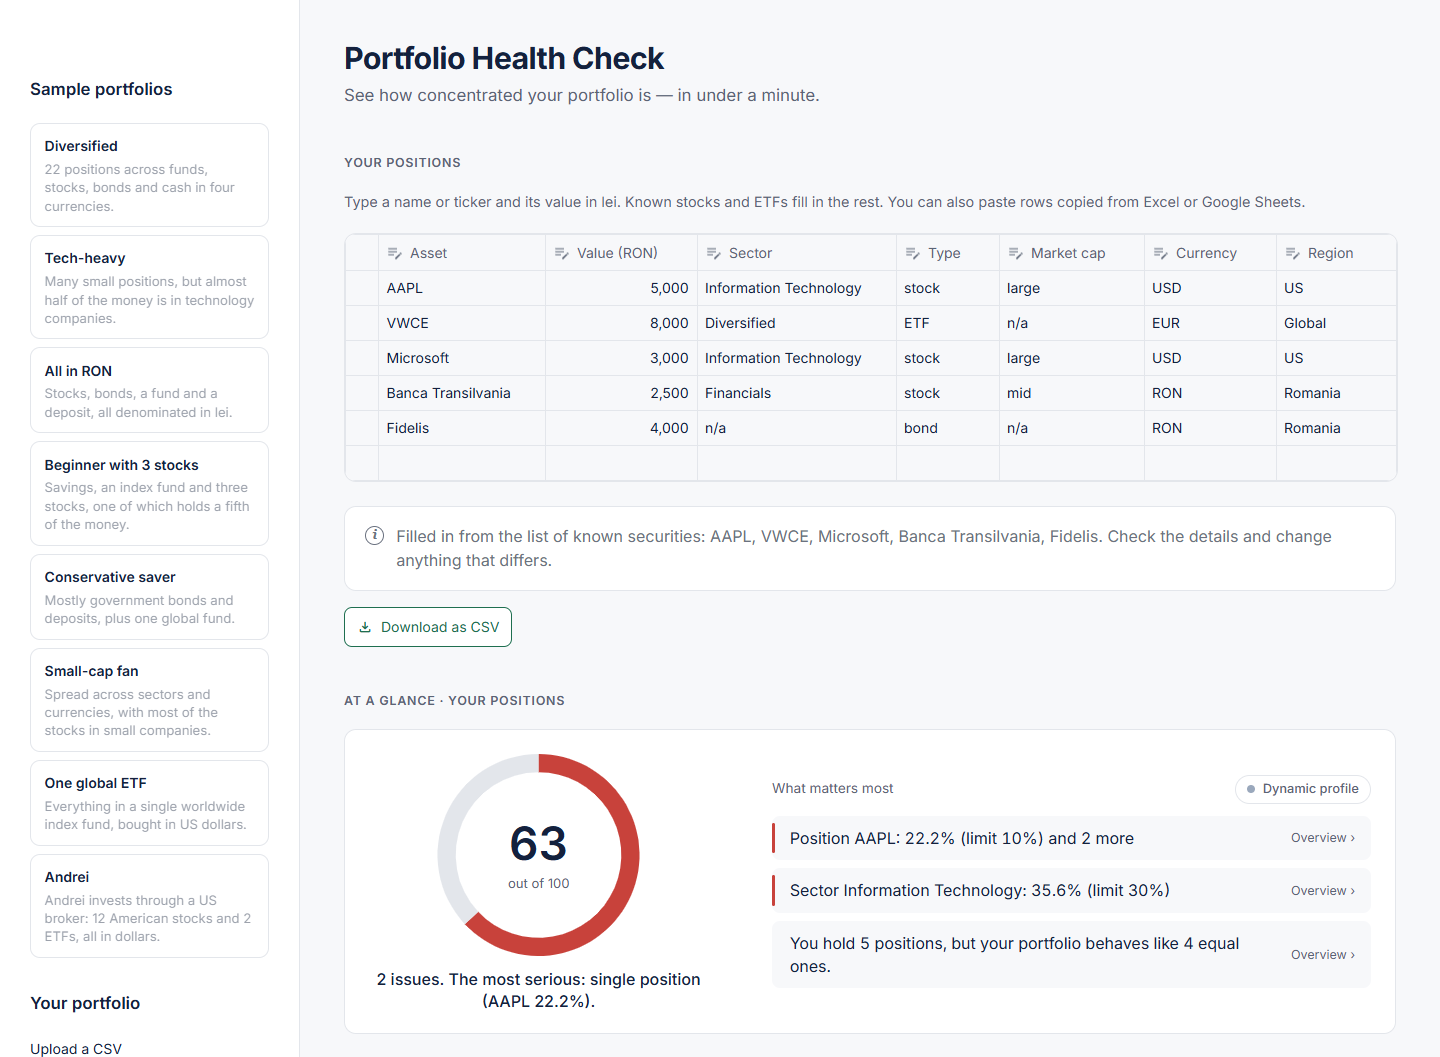
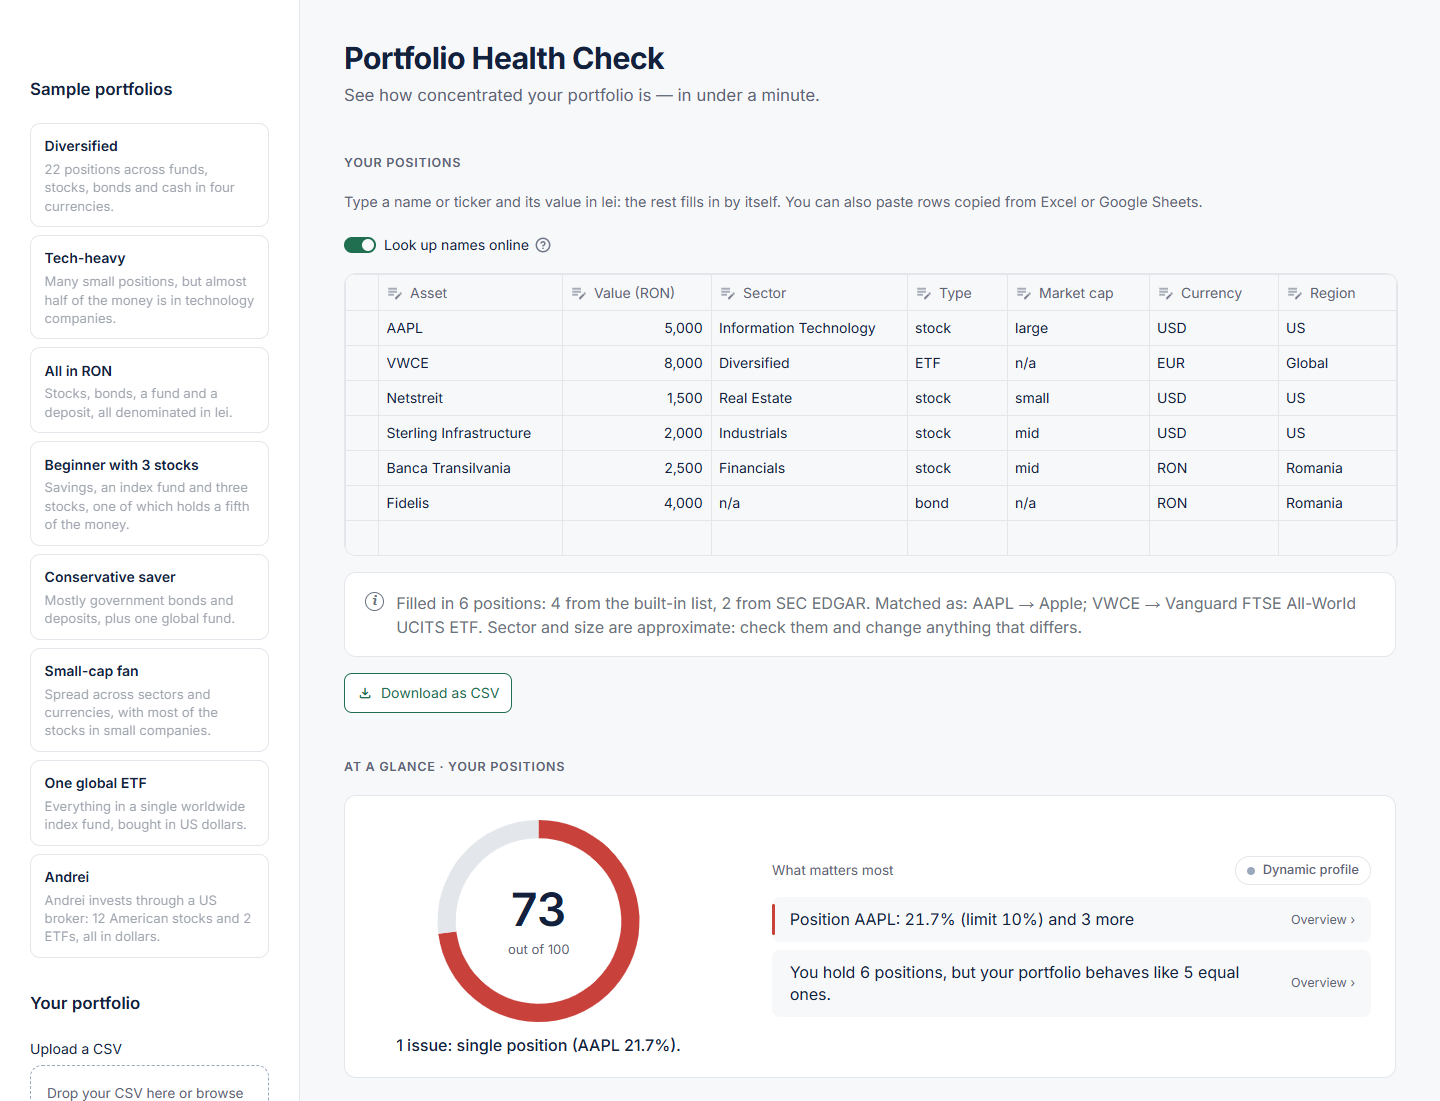
Document where the details come from and refresh screenshots

diff --git a/README.md b/README.md
@@ -14,10 +14,28 @@ The first time, it sets everything up (about a minute). After that, it starts at
 ## Three ways to enter a portfolio
 
 1. **Try a sample:** pick one of the eight portfolios in the side panel. "Edit these positions" turns any of them into a starting point for your own.
-2. **Type or paste:** click "Type or paste positions" and enter a name or ticker and its value in lei. Known stocks and ETFs (Apple, AAPL, VWCE, Banca Transilvania, …) fill in sector, type, market cap, currency and region by themselves, and you choose the rest from drop-down lists. You can also paste rows copied from Excel or Google Sheets (name, then value). "Download as CSV" keeps them for next time.
-3. **Upload a CSV:** the format is below. Files saved by Excel with Romanian settings work as they are, with `;` between columns and a decimal comma (1.234,56). Common spellings are accepted too ("Stock", "Large cap", "USA").
+2. **Type or paste:** click "Type or paste positions" and enter a name or ticker and its value in lei. Sector, type, market cap, currency and region fill in by themselves (see below), and whatever cannot be found is chosen from drop-down lists. You can also paste rows copied from Excel or Google Sheets (name, then value). "Download as CSV" keeps them for next time.
+3. **Upload a CSV:** the format is below. Files saved by Excel with Romanian settings work as they are, with `;` between columns and a decimal comma (1.234,56). Common spellings are accepted too ("Stock", "Large cap", "USA"). A file with only names and values is enough: the app offers to fill in the missing details.
 
-The list of known securities is [data/known_securities.csv](data/known_securities.csv). Add a row to teach the app a new stock or fund.
+![Positions pasted from a spreadsheet, filled in automatically](docs/screenshots/editor-paste-desktop.png)
+
+## Where the details come from
+
+Only free sources whose terms allow this use, in this order:
+
+| Source | Covers | Licence | Gives |
+|---|---|---|---|
+| Built-in list, [data/known_securities.csv](data/known_securities.csv) | about 220 popular stocks and ETFs: US and European large caps, Bucharest (BVB) shares, US and UCITS ETFs | our own compilation | everything |
+| [SEC EDGAR](https://www.sec.gov/edgar) | every company listed in the US (about 10,000), including European and emerging-market companies with US listings | U.S. government data, public domain | sector (from the SIC code), size (from the public float), region (from the business address), currency |
+| [OpenFIGI](https://www.openfigi.com) | listings on other exchanges, and funds | free, MIT licence, no restrictions on use or redistribution | type and currency; for funds, region and sector read from the fund's name |
+
+- **Not used:** Yahoo Finance and the libraries that read it (such as yfinance). Yahoo's terms do not allow automated extraction.
+- **Approximate sector and size:** GICS sector assignments and live market caps are licensed commercial data. The sector here comes from the official SIC code through our own table, and the size from the public float the company last reported. The app says so and lets you change both.
+- **What still needs a choice:** a European share that is not in the built-in list gets its type, currency and region, but you choose its sector and size. A ticker on its own is read as the US ticker (M is Macy's, not MedLife on BVB), so type the company name for a share listed only in Europe.
+- **Privacy and offline use:** only the names you type are sent. The "Look up names online" switch turns the lookup off, and the editor works offline.
+- **Optional settings:** a free [OpenFIGI API key](https://www.openfigi.com/api) in the `OPENFIGI_API_KEY` environment variable raises OpenFIGI's limit on name searches. `PHC_CONTACT` adds an e-mail to the identification string SEC asks automated clients to send.
+
+Add a row to the built-in list to teach the app a new stock or fund.
 
 ## Install and run by hand
 
@@ -77,7 +95,7 @@ The 11 official GICS sectors: Energy, Materials, Industrials, Consumer Discretio
 - The market-cap reference is approximate: CRSP uses cumulative cap bands, while the data here use dollar thresholds.
 - Issuer risk on bonds is not analysed.
 - No live prices: values are entered by hand, in lei.
-- The details of known securities are approximate (market caps change), and each fund lists one common listing: if you bought it in another currency, change the currency in the editor.
+- The details filled in automatically are approximate: market caps change, sectors come from SIC codes (not GICS), and each fund in the built-in list has one common listing, so if you bought it in another currency, change the currency in the editor.
 
 ## Sources
 
@@ -85,6 +103,8 @@ The 11 official GICS sectors: Energy, Materials, Industrials, Consumer Discretio
 - Banz, R. W. (1981). The relationship between return and market value of common stocks. *Journal of Financial Economics*, 9(1), 3–18.
 - Fama, E. F., & French, K. R. (1993). Common risk factors in the returns on stocks and bonds. *Journal of Financial Economics*, 33(1), 3–56.
 - Directive 2009/65/EC (UCITS), Article 52: the 5/10/40 diversification rule for funds.
+- U.S. Securities and Exchange Commission, EDGAR company tickers, submissions and XBRL frames (public float) APIs.
+- OpenFIGI, Open Symbology API (Bloomberg; FIGI under the MIT licence).
 
 ## How it was built
 
